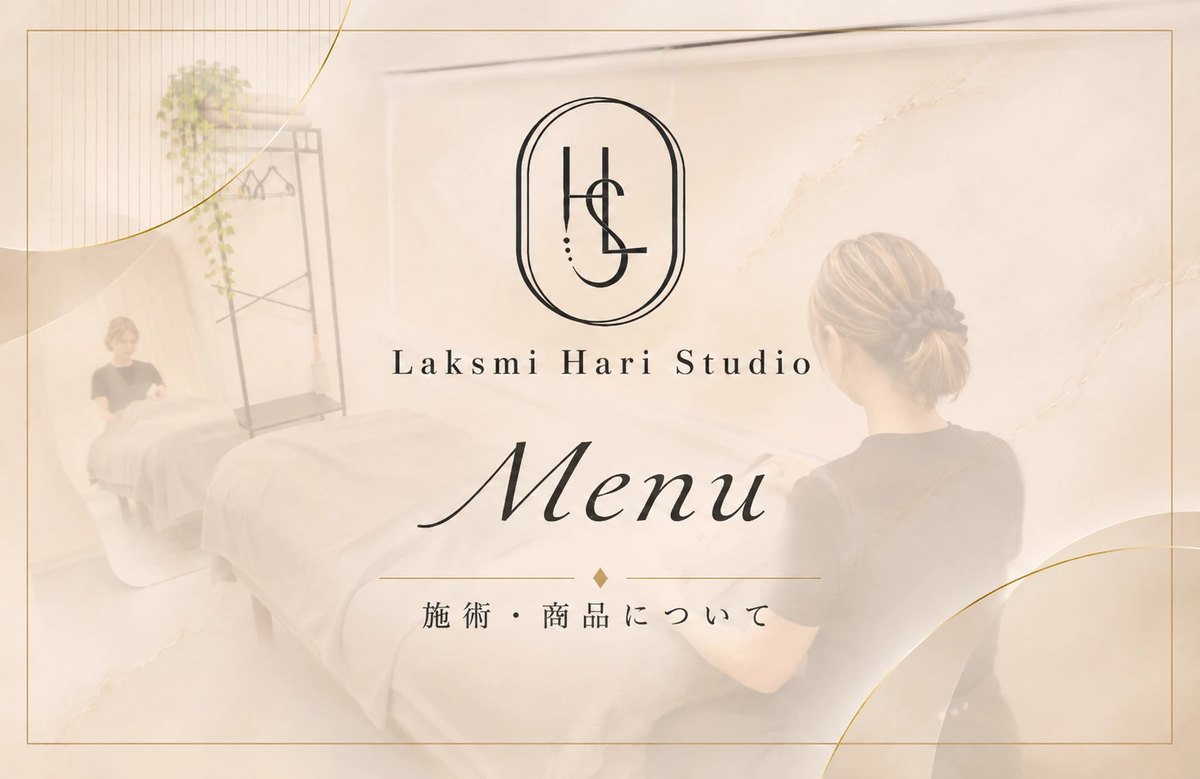
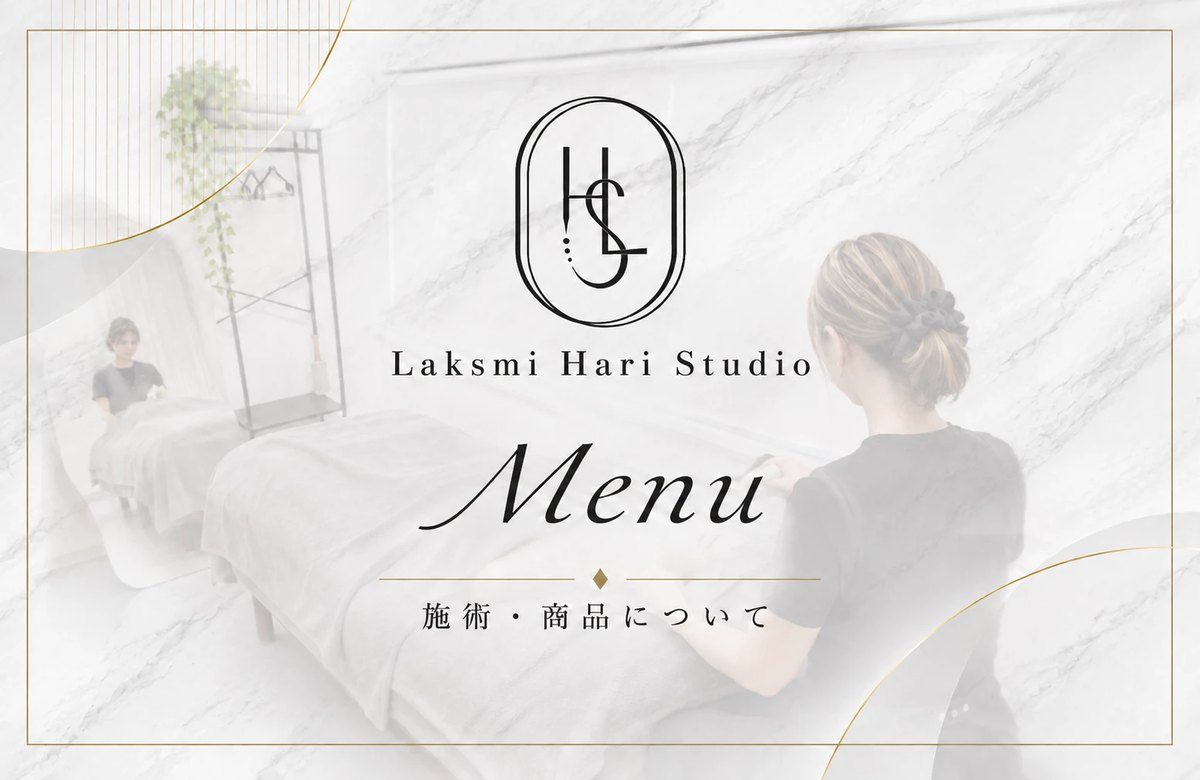
Laksmiの2ページ：ヘッド画像を新しい版に・地をライトグレーの大理石風に（黒と金はそのまま）

diff --git a/public/laksmi-treatment/index.html b/public/laksmi-treatment/index.html
@@ -13,17 +13,17 @@
 <link href="https://fonts.googleapis.com/css2?family=Shippori+Mincho+B1:wght@400;500;600&family=Cormorant+Garamond:ital,wght@0,300;0,400;0,500;1,300&display=swap" rel="stylesheet">
 <style>
   @font-face{font-family:'LH Num';src:url(fonts/cormorant-500.woff2) format('woff2');font-weight:500;font-display:swap}
-  html,body{margin:0;padding:0;background:#ebe4da}
+  html,body{margin:0;padding:0;background:#e4e4e2}
   body{font-family:"Shippori Mincho B1","Yu Mincho",serif;-webkit-font-smoothing:antialiased;color:#2b2622}
   a{text-decoration:none}
   @keyframes lhFade{from{opacity:0;transform:translateY(10px)}to{opacity:1;transform:none}}
-  .page{width:100%;max-width:480px;margin:0 auto;background:#f4e4d7;box-shadow:0 0 40px rgba(60,45,30,.10);position:relative;min-height:100vh}
+  .page{width:100%;max-width:480px;margin:0 auto;background:#f3f3f2 url(img/marble.jpg) center top/600px auto repeat;box-shadow:0 0 40px rgba(60,45,30,.10);position:relative;min-height:100vh}
   .orn{display:flex;align-items:center;justify-content:center;gap:10px;padding:24px 0 4px}
   .orn i{width:44px;height:1px;background:#cdb98f}
   .orn b{width:6px;height:6px;background:#B8975A;transform:rotate(45deg)}
-  .tabs{position:sticky;top:0;z-index:20;background:rgba(244,228,215,.95);backdrop-filter:blur(6px);padding:14px 14px 12px;border-bottom:1px solid rgba(184,151,90,.2)}
+  .tabs{position:sticky;top:0;z-index:20;background:rgba(244,244,243,.95);backdrop-filter:blur(6px);padding:14px 14px 12px;border-bottom:1px solid rgba(184,151,90,.2)}
   .tabs div{display:grid;grid-template-columns:repeat(3,1fr);gap:7px}
-  .lh-tab{padding:9px 4px;font-family:inherit;font-size:12px;letter-spacing:.04em;line-height:1.35;border-radius:2px;cursor:pointer;transition:all .25s;background:transparent;color:#6f6255;border:1px solid rgba(184,151,90,.45);min-height:46px}
+  .lh-tab{padding:9px 4px;font-family:inherit;font-size:12px;letter-spacing:.04em;line-height:1.35;border-radius:2px;cursor:pointer;transition:all .25s;background:transparent;color:#64615c;border:1px solid rgba(184,151,90,.45);min-height:46px}
   .lh-tab small{display:block;font-size:10px;color:#B8975A;letter-spacing:.02em}
   .lh-tab[aria-selected="true"]{background:#2b2622;color:#efe2c4;border-color:#2b2622}
   .lh-tab[aria-selected="true"] small{color:#d9bf86}
@@ -32,37 +32,37 @@
   .en{font-family:'Cormorant Garamond',serif;font-size:13px;letter-spacing:.3em;color:#B8975A;margin:0 0 6px}
   .h2{margin:0 0 6px;font-size:21px;font-weight:600;line-height:1.55;letter-spacing:.02em}
   .catch{margin:0 0 16px;font-size:15px;line-height:1.7;color:#8C6A2C}
-  .lead{margin:0 0 16px;font-size:14px;line-height:1.95;color:#5e5249}
+  .lead{margin:0 0 16px;font-size:14px;line-height:1.95;color:#55524e}
   .h3{display:flex;align-items:center;gap:10px;margin:26px 0 12px;font-size:15px;font-weight:600;letter-spacing:.06em}
   .h3::before{content:"";width:6px;height:6px;background:#B8975A;transform:rotate(45deg);flex:none}
   .h3::after{content:"";flex:1;height:1px;background:rgba(184,151,90,.4)}
-  .dl{margin:0 0 14px;display:grid;grid-template-columns:auto 1fr;gap:6px 14px;font-size:14px;line-height:1.7;color:#5e5249}
-  .dl dt{color:#a3927c;font-size:12.5px;white-space:nowrap}
+  .dl{margin:0 0 14px;display:grid;grid-template-columns:auto 1fr;gap:6px 14px;font-size:14px;line-height:1.7;color:#55524e}
+  .dl dt{color:#9a968f;font-size:12.5px;white-space:nowrap}
   .dl dd{margin:0}
-  .check{margin:0;padding:0;list-style:none;font-size:14px;line-height:1.75;color:#5e5249}
+  .check{margin:0;padding:0;list-style:none;font-size:14px;line-height:1.75;color:#55524e}
   .check li{position:relative;padding:5px 0 5px 22px}
   .check li::before{content:"";position:absolute;left:3px;top:13px;width:9px;height:5px;border-left:1.5px solid #B8975A;border-bottom:1.5px solid #B8975A;transform:rotate(-45deg)}
   .points{display:grid;gap:10px}
-  .pt{padding:14px 16px;background:#faf3ec;border:1px solid rgba(184,151,90,.25);border-radius:4px}
+  .pt{padding:14px 16px;background:rgba(255,255,255,.72);border:1px solid rgba(184,151,90,.25);border-radius:4px}
   .pt b{display:block;font-size:14.5px;font-weight:600;margin-bottom:4px}
   .pt b span{font-family:'LH Num','Cormorant Garamond',serif;color:#B8975A;font-size:17px;margin-right:8px}
-  .pt p{margin:0;font-size:13.5px;line-height:1.85;color:#5e5249}
+  .pt p{margin:0;font-size:13.5px;line-height:1.85;color:#55524e}
   .types{margin:6px 0 10px;padding:10px 18px;background:#2b2622;border:1px solid rgba(184,151,90,.55);border-radius:6px;box-shadow:0 8px 20px rgba(60,40,25,.18);list-style:none;font-size:13.5px;line-height:1.7;color:#e9dfcf}
   .types li{display:grid;grid-template-columns:6.6em 1fr;gap:10px;padding:8px 0;border-bottom:1px solid rgba(217,191,134,.22)}
   .types li:last-child{border-bottom:0}
   .types b{color:#d9bf86;font-weight:600}
   .flow{margin:0;padding:0;list-style:none;counter-reset:f}
-  .flow li{counter-increment:f;position:relative;padding:0 0 16px 40px;font-size:14px;line-height:1.75;color:#5e5249}
+  .flow li{counter-increment:f;position:relative;padding:0 0 16px 40px;font-size:14px;line-height:1.75;color:#55524e}
   .flow li::before{content:counter(f);position:absolute;left:0;top:0;width:26px;height:26px;border-radius:50%;background:#2b2622;color:#efe2c4;font-family:'LH Num',serif;font-size:14px;display:flex;align-items:center;justify-content:center}
   .flow li::after{content:"";position:absolute;left:12.5px;top:30px;bottom:4px;width:1px;background:rgba(184,151,90,.45)}
   .flow li:last-child::after{display:none}
   .flow b{display:block;color:#2b2622;font-weight:600}
-  .small{margin:8px 0 0;font-size:12.5px;line-height:1.8;color:#8a7d70}
+  .small{margin:8px 0 0;font-size:12.5px;line-height:1.8;color:#8a8780}
   .badge{display:inline-block;font-size:10.5px;letter-spacing:.12em;padding:2px 8px;border-radius:2px;margin-bottom:6px;background:#2b2622;color:#efe2c4}
-  .to-price{display:flex;align-items:center;justify-content:center;gap:8px;margin:26px 0 6px;height:46px;border:1px solid #B8975A;color:#8C6A2C;font-size:14px;letter-spacing:.12em;border-radius:2px;background:rgba(250,243,236,.6)}
+  .to-price{display:flex;align-items:center;justify-content:center;gap:8px;margin:26px 0 6px;height:46px;border:1px solid #B8975A;color:#8C6A2C;font-size:14px;letter-spacing:.12em;border-radius:2px;background:rgba(255,255,255,.6)}
   .to-price::after{content:"→";font-family:'LH Num',serif}
   .more{margin:22px 0 0}
-  .more summary{list-style:none;display:flex;align-items:center;justify-content:center;gap:8px;height:44px;border:1px solid rgba(184,151,90,.6);border-radius:2px;color:#6f6255;font-size:13.5px;letter-spacing:.1em;cursor:pointer;background:rgba(250,243,236,.5)}
+  .more summary{list-style:none;display:flex;align-items:center;justify-content:center;gap:8px;height:44px;border:1px solid rgba(184,151,90,.6);border-radius:2px;color:#64615c;font-size:13.5px;letter-spacing:.1em;cursor:pointer;background:rgba(255,255,255,.6)}
   .more summary::-webkit-details-marker{display:none}
   .more summary::after{content:"";width:6px;height:6px;border-right:1.5px solid #B8975A;border-bottom:1.5px solid #B8975A;transform:rotate(45deg) translateY(-2px);transition:transform .25s}
   .more[open] summary{margin-bottom:14px}
@@ -71,17 +71,17 @@
   .more[open] .cl{display:inline}
   .gal{display:flex;gap:10px;overflow-x:auto;scroll-snap-type:x mandatory;margin:0 -24px;padding:2px 24px 8px;-webkit-overflow-scrolling:touch}
   .gal img{height:300px;width:auto;flex:none;scroll-snap-align:center;border-radius:4px;border:1px solid rgba(184,151,90,.3);box-shadow:0 6px 16px rgba(60,40,25,.12)}
-  .soon{padding:28px 18px;text-align:center;background:#faf3ec;font-size:14px;line-height:1.9;color:#5e5249}
-  .note{margin:24px 24px 0;padding:16px 18px;background:#faf3ec;border:1px solid rgba(184,151,90,.22)}
-  .note p{margin:0 0 6px;font-size:12.5px;line-height:1.85;color:#7a6d60}
+  .soon{padding:28px 18px;text-align:center;background:rgba(255,255,255,.72);font-size:14px;line-height:1.9;color:#55524e}
+  .note{margin:24px 24px 0;padding:16px 18px;background:rgba(255,255,255,.72);border:1px solid rgba(184,151,90,.22)}
+  .note p{margin:0 0 6px;font-size:12.5px;line-height:1.85;color:#6e6b66}
   .note p:last-child{margin:0}
   .foot{position:relative;margin-top:30px;overflow:hidden}
   .foot img{display:block;width:100%;height:250px;object-fit:cover;filter:blur(1.5px) saturate(.9);transform:scale(1.04)}
-  .foot .ov{position:absolute;inset:0;background:linear-gradient(to bottom,rgba(244,228,215,.80),rgba(244,228,215,.50) 55%,rgba(244,228,215,.90))}
+  .foot .ov{position:absolute;inset:0;background:linear-gradient(to bottom,rgba(244,244,243,.80),rgba(244,244,243,.50) 55%,rgba(244,244,243,.90))}
   .foot .tx{position:absolute;inset:0;display:flex;flex-direction:column;align-items:center;justify-content:center;gap:6px}
-  .foot .tx span:first-child{font-size:11px;letter-spacing:.38em;color:#6f6255}
+  .foot .tx span:first-child{font-size:11px;letter-spacing:.38em;color:#64615c}
   .foot .tx span:last-child{font-family:'LH Num','Cormorant Garamond',serif;font-weight:500;font-size:32px;letter-spacing:.08em;color:#8C6A2C;text-shadow:0 0 8px rgba(255,250,240,.9),0 0 2px rgba(255,250,240,.9)}
-  .cta-wrap{position:sticky;bottom:0;z-index:30;padding:14px 20px 18px;background:linear-gradient(to top,rgba(244,228,215,.98),rgba(244,228,215,.88));border-top:1px solid rgba(184,151,90,.25)}
+  .cta-wrap{position:sticky;bottom:0;z-index:30;padding:14px 20px 18px;background:linear-gradient(to top,rgba(244,244,243,.98),rgba(244,244,243,.88));border-top:1px solid rgba(184,151,90,.25)}
   .cta{display:flex;align-items:center;justify-content:center;gap:10px;height:54px;background:#2b2622;color:#efe2c4;font-size:16px;letter-spacing:.14em;border-radius:2px;border:1px solid #B8975A;box-shadow:0 6px 18px rgba(43,38,34,.22)}
   .cta i{width:7px;height:7px;background:#B8975A;transform:rotate(45deg)}
 </style>

diff --git a/public/laksmi-menu/index.html b/public/laksmi-menu/index.html
@@ -13,17 +13,17 @@
 <link href="https://fonts.googleapis.com/css2?family=Shippori+Mincho+B1:wght@400;500;600&family=Cormorant+Garamond:ital,wght@0,300;0,400;0,500;1,300&display=swap" rel="stylesheet">
 <style>
   @font-face{font-family:'LH Num';src:url(fonts/cormorant-500.woff2) format('woff2');font-weight:500;font-display:swap}
-  html,body{margin:0;padding:0;background:#ebe4da}
+  html,body{margin:0;padding:0;background:#e4e4e2}
   body{font-family:"Shippori Mincho B1","Yu Mincho",serif;-webkit-font-smoothing:antialiased;color:#2b2622}
   a{text-decoration:none}
   @keyframes lhFade{from{opacity:0;transform:translateY(10px)}to{opacity:1;transform:none}}
-  .page{width:100%;max-width:480px;margin:0 auto;background:#f4e4d7;box-shadow:0 0 40px rgba(60,45,30,.10);position:relative;min-height:100vh}
+  .page{width:100%;max-width:480px;margin:0 auto;background:#f3f3f2 url(img/marble.jpg) center top/600px auto repeat;box-shadow:0 0 40px rgba(60,45,30,.10);position:relative;min-height:100vh}
   .orn{display:flex;align-items:center;justify-content:center;gap:10px;padding:24px 0 4px}
   .orn i{width:44px;height:1px;background:#cdb98f}
   .orn b{width:6px;height:6px;background:#B8975A;transform:rotate(45deg)}
-  .tabs{position:sticky;top:0;z-index:20;background:rgba(244,228,215,.95);backdrop-filter:blur(6px);padding:14px 14px 12px;border-bottom:1px solid rgba(184,151,90,.2)}
+  .tabs{position:sticky;top:0;z-index:20;background:rgba(244,244,243,.95);backdrop-filter:blur(6px);padding:14px 14px 12px;border-bottom:1px solid rgba(184,151,90,.2)}
   .tabs div{display:grid;grid-template-columns:repeat(3,1fr);gap:7px}
-  .lh-tab{padding:9px 4px;font-family:inherit;font-size:12px;letter-spacing:.04em;line-height:1.35;border-radius:2px;cursor:pointer;transition:all .25s;background:transparent;color:#6f6255;border:1px solid rgba(184,151,90,.45);min-height:46px}
+  .lh-tab{padding:9px 4px;font-family:inherit;font-size:12px;letter-spacing:.04em;line-height:1.35;border-radius:2px;cursor:pointer;transition:all .25s;background:transparent;color:#64615c;border:1px solid rgba(184,151,90,.45);min-height:46px}
   .lh-tab small{display:block;font-size:10px;color:#B8975A;letter-spacing:.02em}
   .lh-tab[aria-selected="true"]{background:#2b2622;color:#efe2c4;border-color:#2b2622}
   .lh-tab[aria-selected="true"] small{color:#d9bf86}
@@ -31,9 +31,9 @@
   .panel[hidden]{display:none}
   .en{font-family:'Cormorant Garamond',serif;font-size:13px;letter-spacing:.3em;color:#B8975A;margin:0 0 6px}
   .h2{margin:0 0 10px;font-size:21px;font-weight:600;line-height:1.55;letter-spacing:.02em}
-  .lead{margin:0 0 14px;font-size:14px;line-height:1.85;color:#5e5249}
-  .dl{margin:0 0 14px;display:grid;grid-template-columns:auto 1fr;gap:6px 14px;font-size:14px;line-height:1.7;color:#5e5249}
-  .dl dt{color:#a3927c;font-size:12.5px;white-space:nowrap}
+  .lead{margin:0 0 14px;font-size:14px;line-height:1.85;color:#55524e}
+  .dl{margin:0 0 14px;display:grid;grid-template-columns:auto 1fr;gap:6px 14px;font-size:14px;line-height:1.7;color:#55524e}
+  .dl dt{color:#9a968f;font-size:12.5px;white-space:nowrap}
   .dl dd{margin:0}
   .types{margin:6px 0 22px;padding:10px 18px;background:#2b2622;border:1px solid rgba(184,151,90,.55);border-radius:6px;box-shadow:0 8px 20px rgba(60,40,25,.18);list-style:none;font-size:13.5px;line-height:1.7;color:#e9dfcf}
   .types li{display:grid;grid-template-columns:6.6em 1fr;gap:10px;padding:8px 0;border-bottom:1px solid rgba(217,191,134,.22)}
@@ -41,27 +41,27 @@
   .types b{color:#d9bf86;font-weight:600}
   .price{border-top:1px solid rgba(184,151,90,.3)}
   .row{display:flex;justify-content:space-between;align-items:flex-end;gap:12px;padding:13px 2px;border-bottom:1px solid rgba(184,151,90,.3)}
-  .row .k{font-size:13.5px;line-height:1.6;color:#5e5249}
-  .row .k small{display:block;font-size:11.5px;color:#a3927c}
+  .row .k{font-size:13.5px;line-height:1.6;color:#55524e}
+  .row .k small{display:block;font-size:11.5px;color:#9a968f}
   .row .v{text-align:right;white-space:nowrap}
   .row .v b{font-family:'LH Num','Cormorant Garamond',serif;font-weight:500;font-size:27px;letter-spacing:.01em;color:#2b2622}
   .row .v em{font-style:normal;font-size:12px;margin-left:2px}
-  .row .v small{display:block;font-size:11px;color:#a3927c;margin-top:1px}
-  .row .v .per{font-size:11.5px;color:#8a7d70}
+  .row .v small{display:block;font-size:11px;color:#9a968f;margin-top:1px}
+  .row .v .per{font-size:11.5px;color:#8a8780}
   .badge{display:inline-block;font-size:10.5px;letter-spacing:.12em;color:#fff;background:#B8975A;padding:2px 8px;border-radius:2px;margin-bottom:4px}
   .badge.dark{background:#2b2622;color:#efe2c4}
   .rule{height:1px;margin:26px 0;background:linear-gradient(to right,transparent,rgba(184,151,90,.5),transparent)}
-  .soon{padding:28px 18px;text-align:center;background:#faf2ea;font-size:14px;line-height:1.9;color:#5e5249}
-  .note{margin:24px 24px 0;padding:16px 18px;background:#faf3ec;border:1px solid rgba(184,151,90,.22)}
-  .note p{margin:0 0 6px;font-size:12.5px;line-height:1.85;color:#7a6d60}
+  .soon{padding:28px 18px;text-align:center;background:rgba(255,255,255,.72);font-size:14px;line-height:1.9;color:#55524e}
+  .note{margin:24px 24px 0;padding:16px 18px;background:rgba(255,255,255,.72);border:1px solid rgba(184,151,90,.22)}
+  .note p{margin:0 0 6px;font-size:12.5px;line-height:1.85;color:#6e6b66}
   .note p:last-child{margin:0}
   .foot{position:relative;margin-top:30px;overflow:hidden}
   .foot img{display:block;width:100%;height:250px;object-fit:cover;filter:blur(1.5px) saturate(.9);transform:scale(1.04)}
-  .foot .ov{position:absolute;inset:0;background:linear-gradient(to bottom,rgba(244,228,215,.80),rgba(244,228,215,.50) 55%,rgba(244,228,215,.90))}
+  .foot .ov{position:absolute;inset:0;background:linear-gradient(to bottom,rgba(244,244,243,.80),rgba(244,244,243,.50) 55%,rgba(244,244,243,.90))}
   .foot .tx{position:absolute;inset:0;display:flex;flex-direction:column;align-items:center;justify-content:center;gap:6px}
-  .foot .tx span:first-child{font-size:11px;letter-spacing:.38em;color:#6f6255}
+  .foot .tx span:first-child{font-size:11px;letter-spacing:.38em;color:#64615c}
   .foot .tx span:last-child{font-family:'LH Num','Cormorant Garamond',serif;font-weight:500;font-size:32px;letter-spacing:.08em;color:#8C6A2C;text-shadow:0 0 8px rgba(255,250,240,.9),0 0 2px rgba(255,250,240,.9)}
-  .cta-wrap{position:sticky;bottom:0;z-index:30;padding:14px 20px 18px;background:linear-gradient(to top,rgba(244,228,215,.98),rgba(244,228,215,.88));border-top:1px solid rgba(184,151,90,.25)}
+  .cta-wrap{position:sticky;bottom:0;z-index:30;padding:14px 20px 18px;background:linear-gradient(to top,rgba(244,244,243,.98),rgba(244,244,243,.88));border-top:1px solid rgba(184,151,90,.25)}
   .cta{display:flex;align-items:center;justify-content:center;gap:10px;height:54px;background:#2b2622;color:#efe2c4;font-size:16px;letter-spacing:.14em;border-radius:2px;border:1px solid #B8975A;box-shadow:0 6px 18px rgba(43,38,34,.22)}
   .cta i{width:7px;height:7px;background:#B8975A;transform:rotate(45deg)}
 </style>
